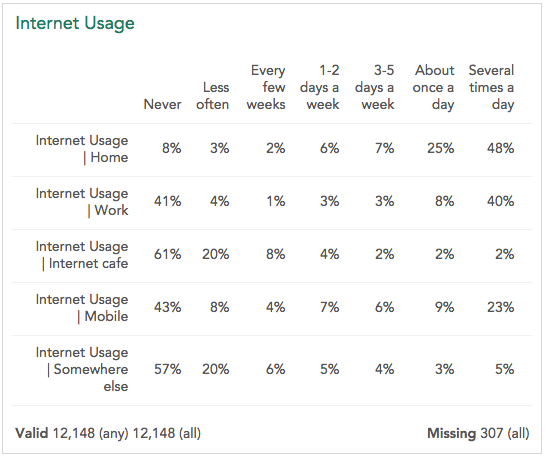
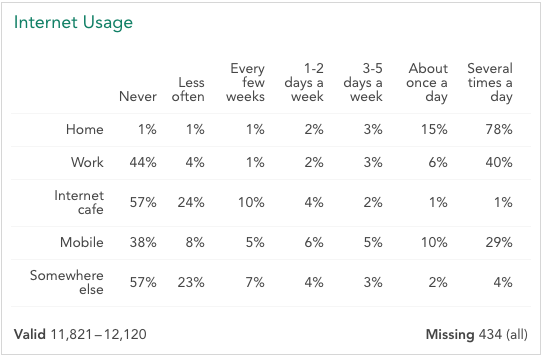
update docs and image for array card

diff --git a/crunch/crunch_variable-cards.md b/crunch/crunch_variable-cards.md
@@ -1,56 +1,54 @@
 ---
-title: "Variable Cards"
+title: Variable Cards
 audience: all
 ---
 
 In card view, each variable appears on a **Variable card**. The variable card displays a top-line summary of the data contained in that variable.
 
-Hover your mouse cursor over a variable to reveal the **Properties** link below the card — click this link to reveal <a href="crunch_variable-properties.html">Variable Properties</a> for that variable. Note that if you cannot edit the dataset, these properties will be read-only.
+Hover your mouse cursor over a variable to reveal the **Properties** link below the card -- click this link to reveal [Variable Properties](crunch_variable-properties.html) for that variable. Note that if you cannot edit the dataset, these properties will be read-only.
 
 The following varaible types are currently supported by Crunch.
 
-### Categorical
+# Categorical
 
 ![](images/VariableCardCategorical.png)
 
 A categorical variable represents a question for which the respondent could choose exactly one answer. Click **Valid/Missing** at the bottom of the card to show missing values and reasons.
 
-### Multiple Response
+# Multiple Response
 
 ![](images/VariableCardMR.png)
 
-A multiple response variable represents a question for which the respondent could choose any number of responses, i.e. “choose all that apply.” As with categorical variables you can click the Valid/Missing area to show missing values and reasons.
+A multiple response variable represents a question for which the respondent could choose any number of responses, i.e. "choose all that apply." As with categorical variables you can click the Valid/Missing area to show missing values and reasons.
 
-### Numeric
+# Numeric
 
 ![](images/VariableCardNumeric.png)
 
 A numeric variable represents a question to which the respondent gave a numeric answer. The variable card displays a histogram of the responses as well as summary statistics.
 
-### Date/Time
+# Date/Time
 
 ![](images/VariableCardDate.png)
 
 A date/time variable represents a timestamp, for example the date of a survey. The variable card displays a histogram of the dates in the variable.
 
-### Categorical Array
+# Categorical Array
 
 ![](images/VariableCardArray.png)
 
 A categorical array represents a series of questions with the same response options. The responses are shown in the columns while the individual questions are shown in the rows.
 
-Valid/missing shows how many valid responses there are for any question in the array as well as for all questions in the array. For example, if a respondent did not have a mobile device in the array above, they would be counted under "Valid (any)", but not "Valid (all)".
+Valid/missing shows how many valid responses exist for any item (row) in the array, which is usually a range. In the example above, if a respondent was not asked about mobile internet usage because they did not have a mobile device, they would not be included in the "Mobile" row. "Missing (all)" indicates the number for which no valid category is selected for any of the items in the array.
 
-Click Valid or Missing  to see the number of missing values for each row.
+Click Valid or Missing to see the number of missing values for each row.
 
-### Array and Multiple Response Variables in the Sidebar
+# Array and Multiple Response Variables in the Sidebar
 
-Hover over an array or multiple response variable variable in the sidebar to display a plus symbol next to the name.
+Hover over an array or multiple response variable variable in the sidebar to display a plus symbol next to the name.
 
 ![](images/SidebarArrayCollapse.png)
 
 Click the plus to show the variables that make up the array.
 
 ![](images/SidebarArrayExpand.png)
-
-
